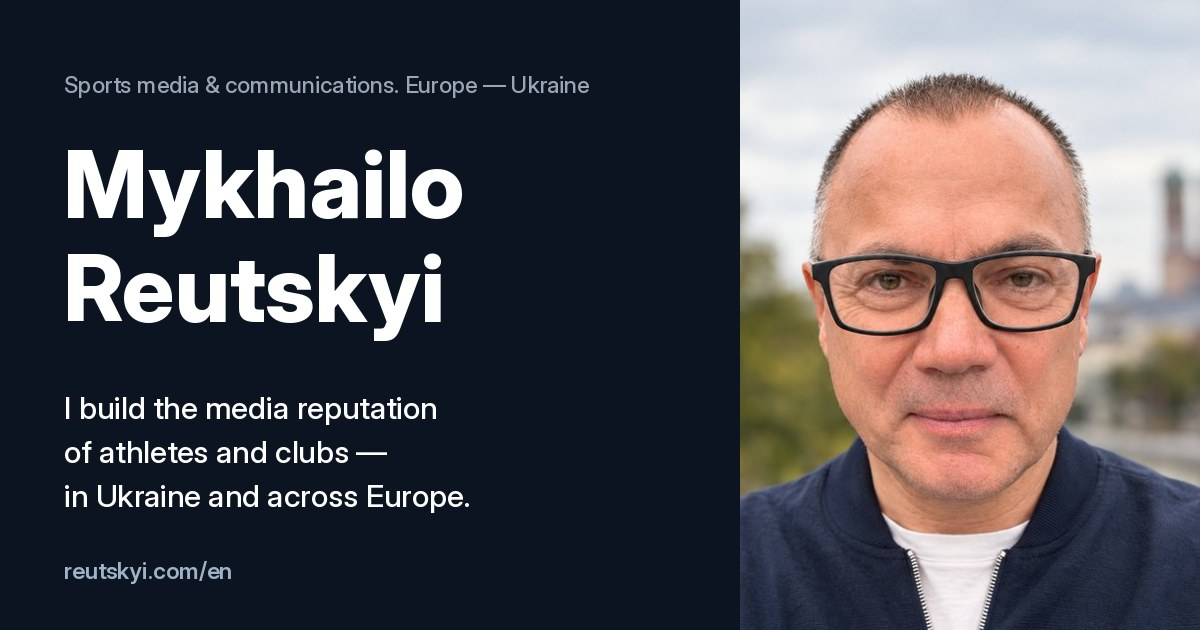
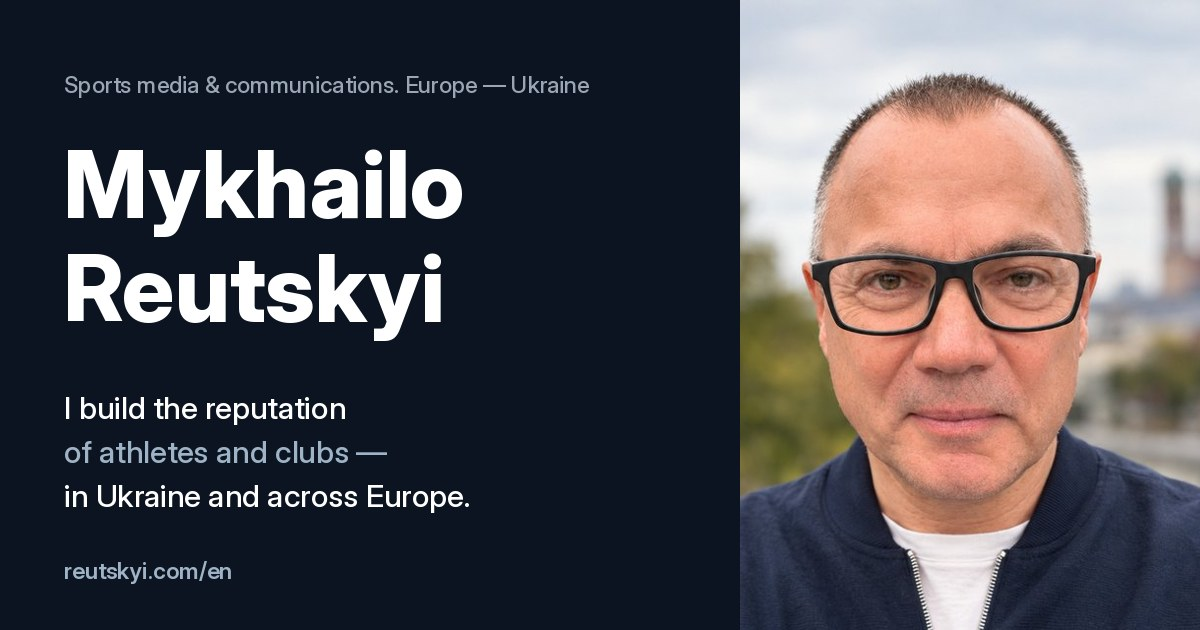
Add files via upload

Changed region(s): [[0.0617, 0.6937, 0.3083, 0.754], [0.185, 0.6333, 0.37, 0.6635]]

diff --git a/index.html b/index.html
@@ -92,7 +92,7 @@
 <section class="hero">
   <div class="wrap">
     <p class="eyebrow">Спортивні медіа та комунікації. Європа — Україна</p>
-    <h1>Будую медійну репутацію <span>спортсменів і&nbsp;клубів.</span></h1>
+    <h1>Будую репутацію <span>спортсменів і&nbsp;клубів.</span></h1>
     <p class="lead">В Україні та Європі: робота з медіа, позиціонування, медіатренінги та кризові комунікації.</p>
     <div class="actions">
       <a class="btn primary" href="#contact">Написати мені</a>
